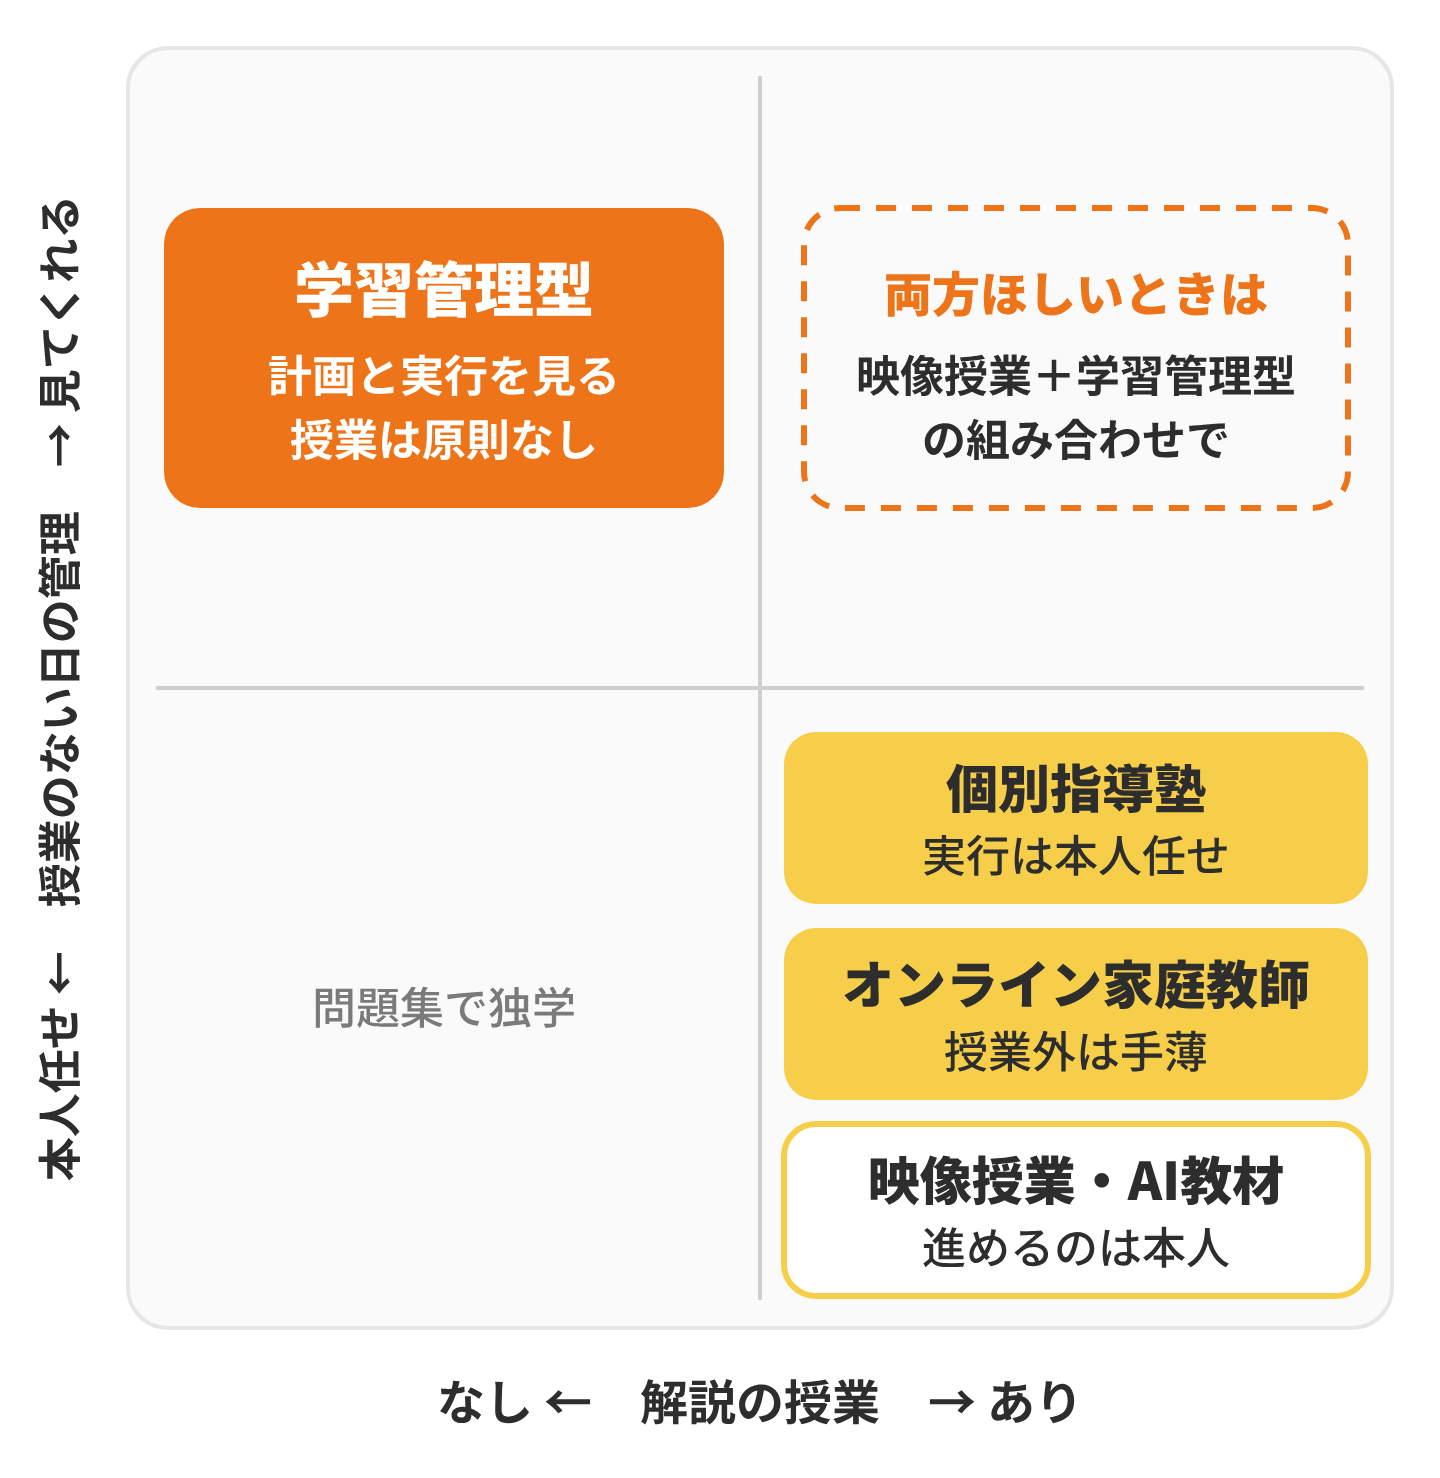
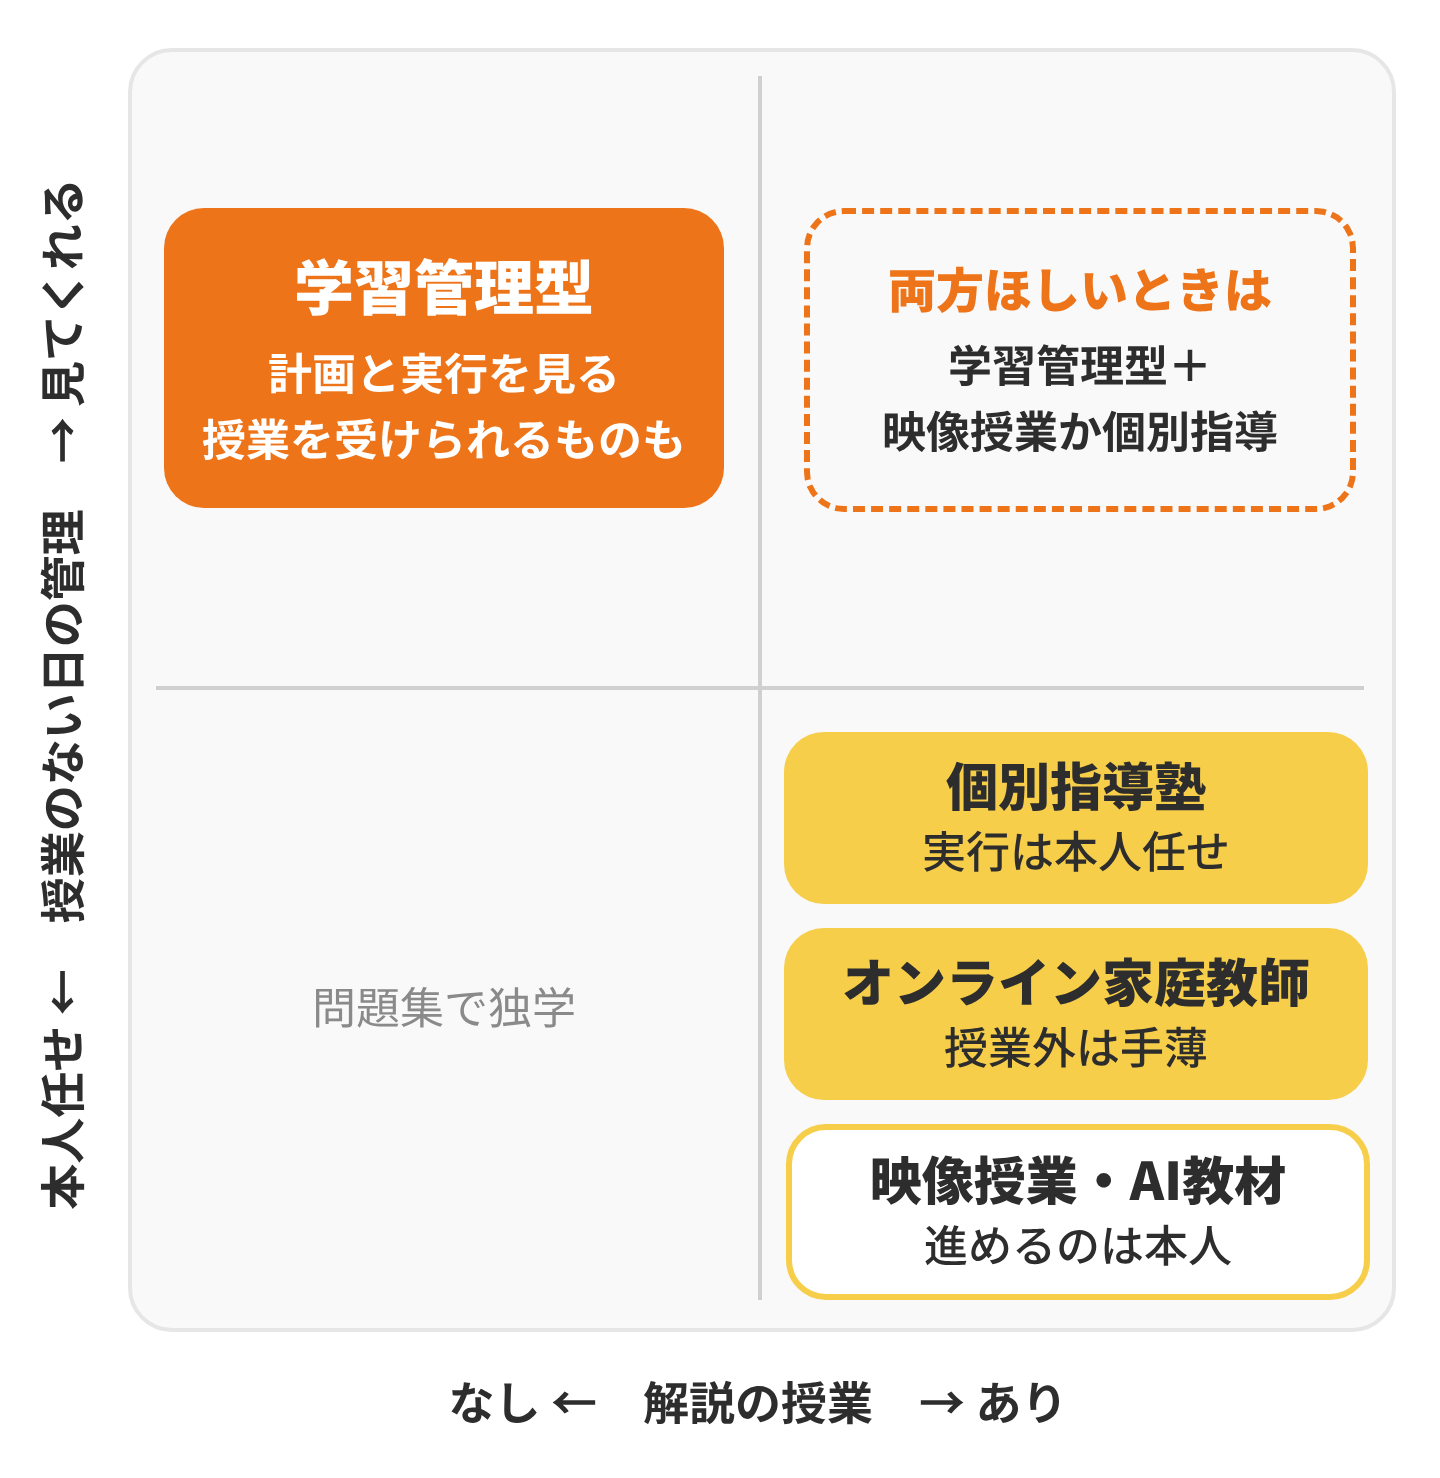
content: 選び方の記事に授業を受けられる学習管理型の説明と、スポーツをする子向けの学習サービスの違いの節を足す
- 2026-11-18 版の9か所を、2周目の直しと LINE カードの移動が入った現行版に反映する
- 図1を差し替え、図4と写真2枚（写真A・写真C）を入れる

diff --git a/content/blog/bukatsu-benkyou-ryoritsu-support-erabikata.md b/content/blog/bukatsu-benkyou-ryoritsu-support-erabikata.md
@@ -2,7 +2,7 @@
 title: 部活と塾の両立｜中学生に合う塾を4タイプの費用と5つの基準で比較
 description: 部活と塾を両立させたいなら、お子さんの1週間の空き時間を書き出したうえで、試合で休んだ回の振替や授業のない日の勉強の確認など5つの基準で塾やサービスを比べると選びやすくなります。
 date: '2026-09-18'
-dateModified: '2026-11-02'
+dateModified: '2026-11-18'
 author: 中村龍人
 category: 学習のコツ
 categoryType: article
@@ -29,7 +29,7 @@ targetStage: junior-high
 
 ### 帰宅後に残る時間と体力
 
-<!-- 写真A（未提供）：部活から帰って遅い夕食をとる中学生 -->
+![部活から帰って遅い夕食をとる中学生](/images/blog/bukatsu-juku-ryoritsu-kitaku-yushoku.jpg)
 
 帰宅が21時になる平日は、夕食と入浴を済ませると22時を過ぎ、疲れきった状態で寝るまでの1〜2時間を過ごすことになりますが、その時間も学校の宿題でほとんどなくなってしまいます。休日に遅れを取り戻そうにも、試合や大会が入ってまとまった時間はなかなか取れません。
 
@@ -61,7 +61,7 @@ targetStage: junior-high
 
 ### オンライン家庭教師
 
-<!-- 写真C（未提供）：自宅の机でオンライン授業を受ける中学生 -->
+![自宅の机でオンライン授業を受ける中学生](/images/blog/bukatsu-juku-ryoritsu-online-jugyo.jpg)
 
 オンライン家庭教師とは、ビデオ通話を使って講師とマンツーマンで授業を受けるサービスです。移動時間がかからず、練習後の夜でも授業を入れやすいため、時間の面では部活をしている子と相性のよい形式です。講師の変更や授業回数の調整がしやすいサービスも多くあります。料金は週1回あたりの額で決まっていることが多く、週2回にするとほぼ2倍になります。
 
@@ -75,20 +75,20 @@ targetStage: junior-high
 
 ### 学習管理・コーチング型
 
-学習管理・コーチング型は、解説の授業をするかわりに、定期面談で学習計画を一緒に立て、計画どおりに進んでいるかを確かめていくサービスです。やることとやる時間を決めて、やれたかどうかまで確認するサービスなら、授業のない日の勉強も確認の対象になります。週1回の面談で計画を渡すだけのものもあれば、毎日やり取りしながら計画どおりにできたかまで確かめるものもあり、確認の頻度はサービスやプランによってかなり違ってきます。
+学習管理・コーチング型は、毎週の授業を中心にするかわりに、定期面談で学習計画を一緒に立て、計画どおりに進んでいるかを確かめていくサービスです。やることとやる時間を決めて、やれたかどうかまで確認するサービスなら、授業のない日の勉強も確認の対象になります。週1回の面談で計画を渡すだけのものもあれば、毎日やり取りしながら計画どおりにできたかまで確かめるものもあり、確認の頻度はサービスやプランによってかなり違ってきます。
 
-このタイプの弱点は、教科の解説授業が基本的にないことです。単元の解説を一から受けたい場合は手持ちの教材や映像授業と組み合わせて使うことになり、映像授業を足せばその費用も別にかかります。また、チャットでの報告は本人の自己申告になるので、本当にやったかどうかまでは確かめにくいこともあります。
+このタイプの弱点は、教科の解説の授業が月額に含まれていないことが多い点です。単元の解説を一から受けたい場合は、手持ちの教材や映像授業と組み合わせるか、1対1の授業を別料金で受けられるサービスを選ぶことになり、どちらもそのぶんの費用が別にかかります。また、チャットでの報告は本人の自己申告になるので、本当にやったかどうかまでは確かめにくいこともあります。
 
 ### 4タイプの比較
 
-なお、下の表で学習管理・コーチング型の例に挙げているNobilvaは、私が運営に関わっているサービスです。
+なお、下の表で学習管理・コーチング型の例に挙げているNobilvaは、私が運営に関わっているサービスです。Nobilvaでは、計画に合わせた1コマ70分の個別指導を、単発でも毎週でも別料金で受けることができます。
 
 | タイプ | 時間の自由度 | 移動 | 授業外の管理 | 質問対応 | 費用の例（月額） |
 | --- | --- | --- | --- | --- | --- |
 | 通塾型の個別指導塾 | 固定の時間割が基本。振替は教室による | 通塾が必要 | 宿題は出るが、やるかどうかは本人任せのことが多い | 授業内が中心 | 1科目・週1回90分で18,700円（税込）＋諸経費（明光義塾・東京都の中3。諸経費は教室により月3,000円前後） |
 | オンライン家庭教師 | 夜間や週末にも調整しやすい | 移動なし | 授業のない日の管理は含まれないことが多い | 授業内が中心。授業外の対応はサービスによる | 1科目・週1回50分で17,600円（税込）（ネッティー・中3） |
 | 映像授業・AI教材 | いつでも利用可 | 移動なし | 本人任せ | 限られることが多い | 2,178円（税込）（スタディサプリ） |
-| 学習管理・コーチング型 | 面談日時を調整しやすい | 移動なし | 週1回の面談で計画づくり。毎日の確認はプランによる | チャット対応が多い。解説授業は原則なし | 20,900円（税込。システム管理費1,100円を含む）。毎日のチャットつきは29,700円（税込。システム管理費を含む）（Nobilva） |
+| 学習管理・コーチング型 | 面談日時を調整しやすい | 移動なし | 週1回の面談で計画づくり。毎日の確認はプランによる | チャット対応が多い。解説の授業は別料金で受けられるサービスもある | 20,900円（税込。システム管理費1,100円を含む）。毎日のチャットつきは29,700円（税込。システム管理費を含む）（Nobilva） |
 
 ※2026年10月時点の料金です。学年・回数・地域・教室によって変わるため、最新の金額は各社の公式サイトでご確認ください。
 
@@ -106,7 +106,27 @@ link: https://lin.ee/XXwhO3b
 - 夜の時間帯しか空いていなかったり、苦手科目を質問できる相手がほしかったりするなら、オンライン家庭教師が候補になります。
 - 本人がある程度は一人で勉強を進めていて、費用も抑えたいときは、映像授業・AI教材が使いやすい選択肢です。
 - 教材はあるのに手をつけられない家庭や、計画を立ててもそのとおりに進まない家庭には、学習管理・コーチング型が合っています。
-- 解説の授業も毎日の管理もほしい場合は、映像授業で解説を受け、学習管理・コーチング型で計画を立てて毎日の進み具合を確かめてもらう組み合わせもあります。
+- 解説の授業も毎日の管理もほしい場合は、学習管理・コーチング型で計画を立てて毎日の進み具合を確かめてもらい、解説は映像授業か個別指導で受ける組み合わせもあります。
+
+## スポーツをする子に向けた学習サービスの違い
+
+スポーツをする子に向けたオンラインの学習サービスは、毎週の授業を中心にするものと、学習計画を中心にして授業は計画に合わせて入れるものに分かれます。どちらも部活やクラブチームで忙しい子に向けたサービスですが、月額の決まり方と、授業のない日にやることの決め方が違います。
+
+![授業が中心のサービスと学習計画が中心のサービスの1週間を並べた図](/images/blog/bukatsu-juku-ryoritsu-fig4-jugyo-keikaku-week.png)
+
+授業が中心のサービスでは、週に1〜4回の授業の日が先に決まり、授業のない日の勉強は宿題や自習管理のサポートで補います。料金は科目数と授業の回数に応じて上がるのが一般的です。学習計画が中心のサービスでは、週1回の面談で全科目の1週間分の計画を先に決めます。授業は、その計画の中で解説が必要な単元について、単発でも毎週でも受けることができます。
+
+| サービス | 中心になるもの | 月額（中学生） | 入会金 | 対象の競技 | 返金 |
+| --- | --- | --- | --- | --- | --- |
+| STUDY ATHLETE | 週1回60〜90分のマンツーマン授業。全プランに自習管理のサポートつき | 2科目・週1回で19,800円から、3科目・週1回で27,500円から、5科目は39,600円または45,100円。授業なしで自習の管理だけを行う習慣コースは9,900円 | 22,000円 | 競技の指定なし（提携先の掲載はサッカーのクラブが多い） | 公式サイトに記載なし |
+| 球道塾 | 野球経験のある講師による1対1の授業。1回平均60分で週2〜4回を推奨 | 公式サイトの料金表に掲載 | 11,000円 | 野球 | 入金から30日以内は月会費を全額返金 |
+| Nobilva | 週1回の面談でつくる全科目の学習計画。1コマ70分の個別指導を単発でも毎週でも受けられる | 科目数にかかわらず20,900円、毎日のチャットつきは29,700円（どちらもシステム管理費1,100円を含む）。個別指導は別料金 | 18,000円 | 野球が中心（ほかの部活も可） | 入会から30日以内は月額料金を返金 |
+
+※2026年11月18日時点の各社公式サイトの掲載にもとづく税込の金額です。球道塾の入会金は公式サイトに税込・税抜の表記がありません。最新の金額と条件は各社の公式サイトでご確認ください。
+
+毎週決まった曜日に授業を受けて、教科の解説をしっかり聞きたい家庭には、STUDY ATHLETEや球道塾のような授業が中心のサービスが合います。授業は受けずに自習の管理だけを費用を抑えて頼みたい場合は、STUDY ATHLETEの習慣コースが候補になります。学校の教材で全科目の計画を立て、授業は計画に合わせて受けたいという家庭は、Nobilvaのような学習計画が中心のサービスを検討してください。
+
+チームに所属している場合は、チームを通じて申し込むと料金が下がることがあります。球道塾は提携チームの所属者に割引があり、Nobilvaもチームから紹介された家庭は月額が割引になるので、入会前に監督や事務局に聞いてみてください。
 
 ## 部活と両立できる塾・サービスを選ぶ5つの基準
 
@@ -186,7 +206,9 @@ link: https://lin.ee/XXwhO3b
 - 明光義塾 公式サイトの料金案内（東京都の中学3年生）（2026年10月時点）
 - ネッティー 公式サイトの料金案内（中学3年生）（2026年10月時点）
 - スタディサプリ 公式サイトの料金案内（2026年10月時点）
-- Nobilva 料金案内（2026年10月時点）
+- Nobilva 料金案内（2026年11月18日時点）
+- STUDY ATHLETE 公式サイト「塾の特徴・料金」https://www.study-athlete.com/feature/ （2026年11月18日時点）
+- 球道塾 公式サイト https://baseballstudy.online/ （2026年11月18日時点）
 
 :::cta-nobilva
 id: bukatsu_benkyou_ryoritsu_support_erabikata_end_consult
